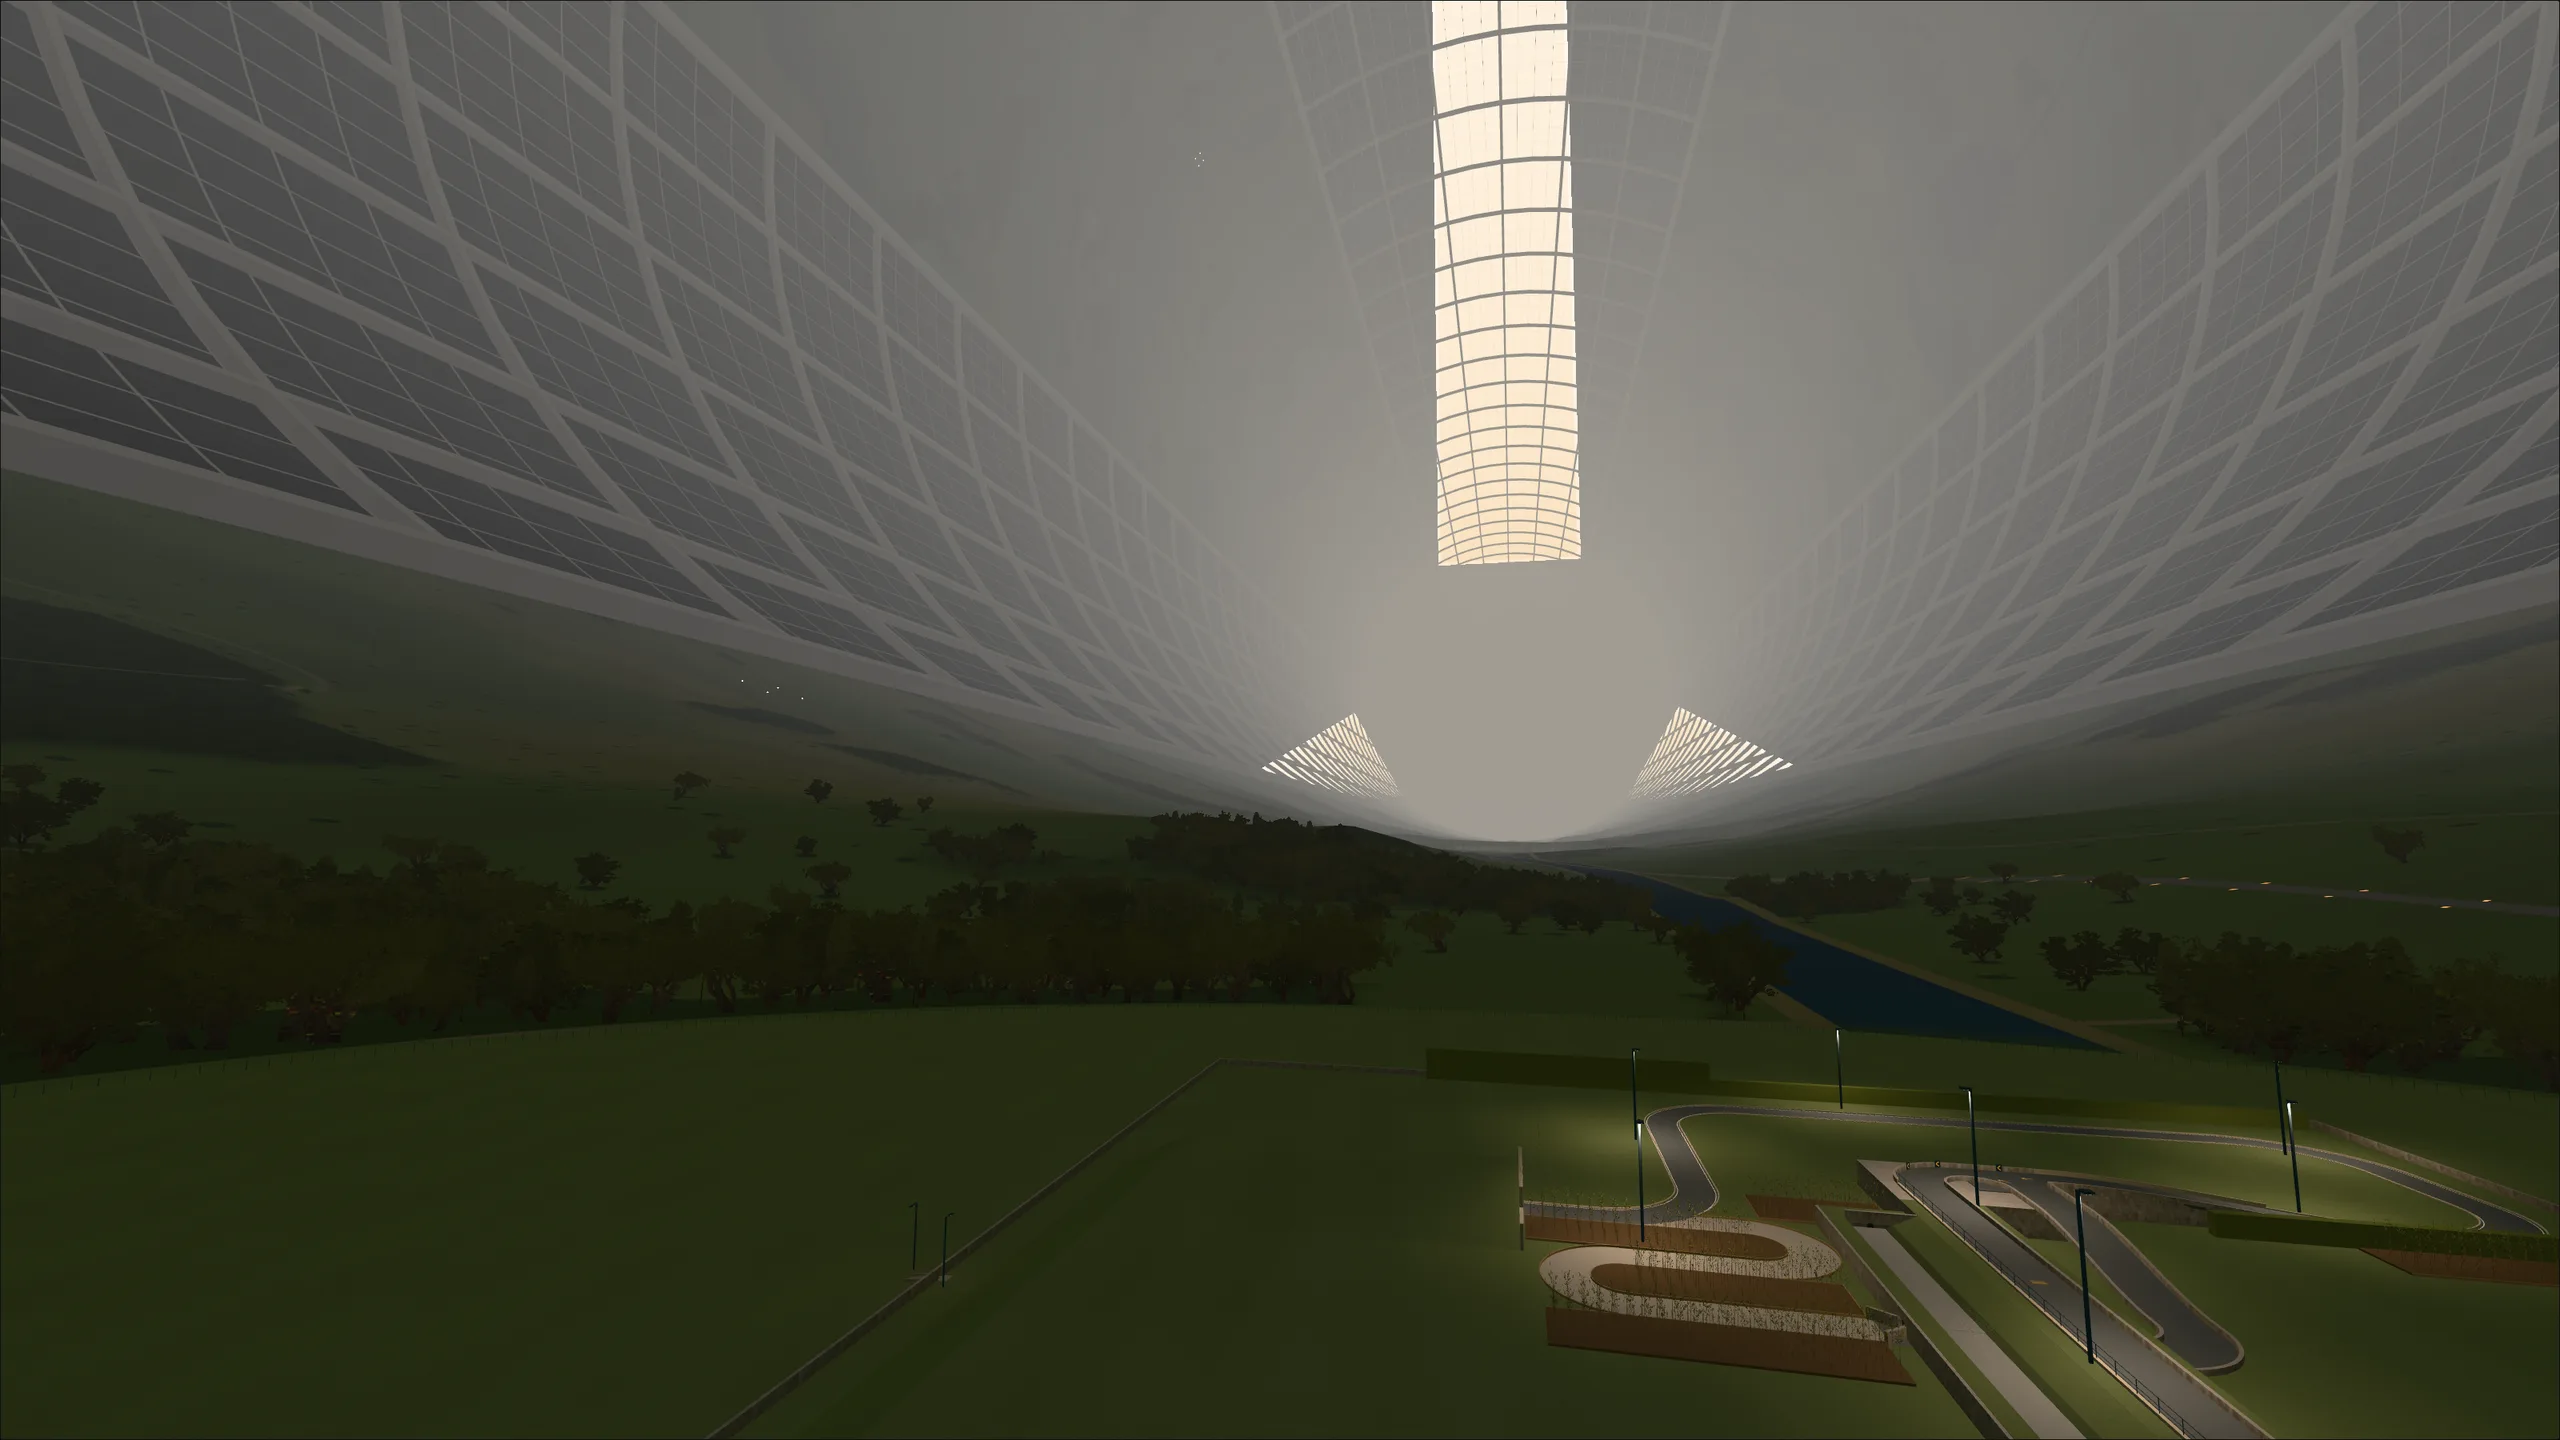
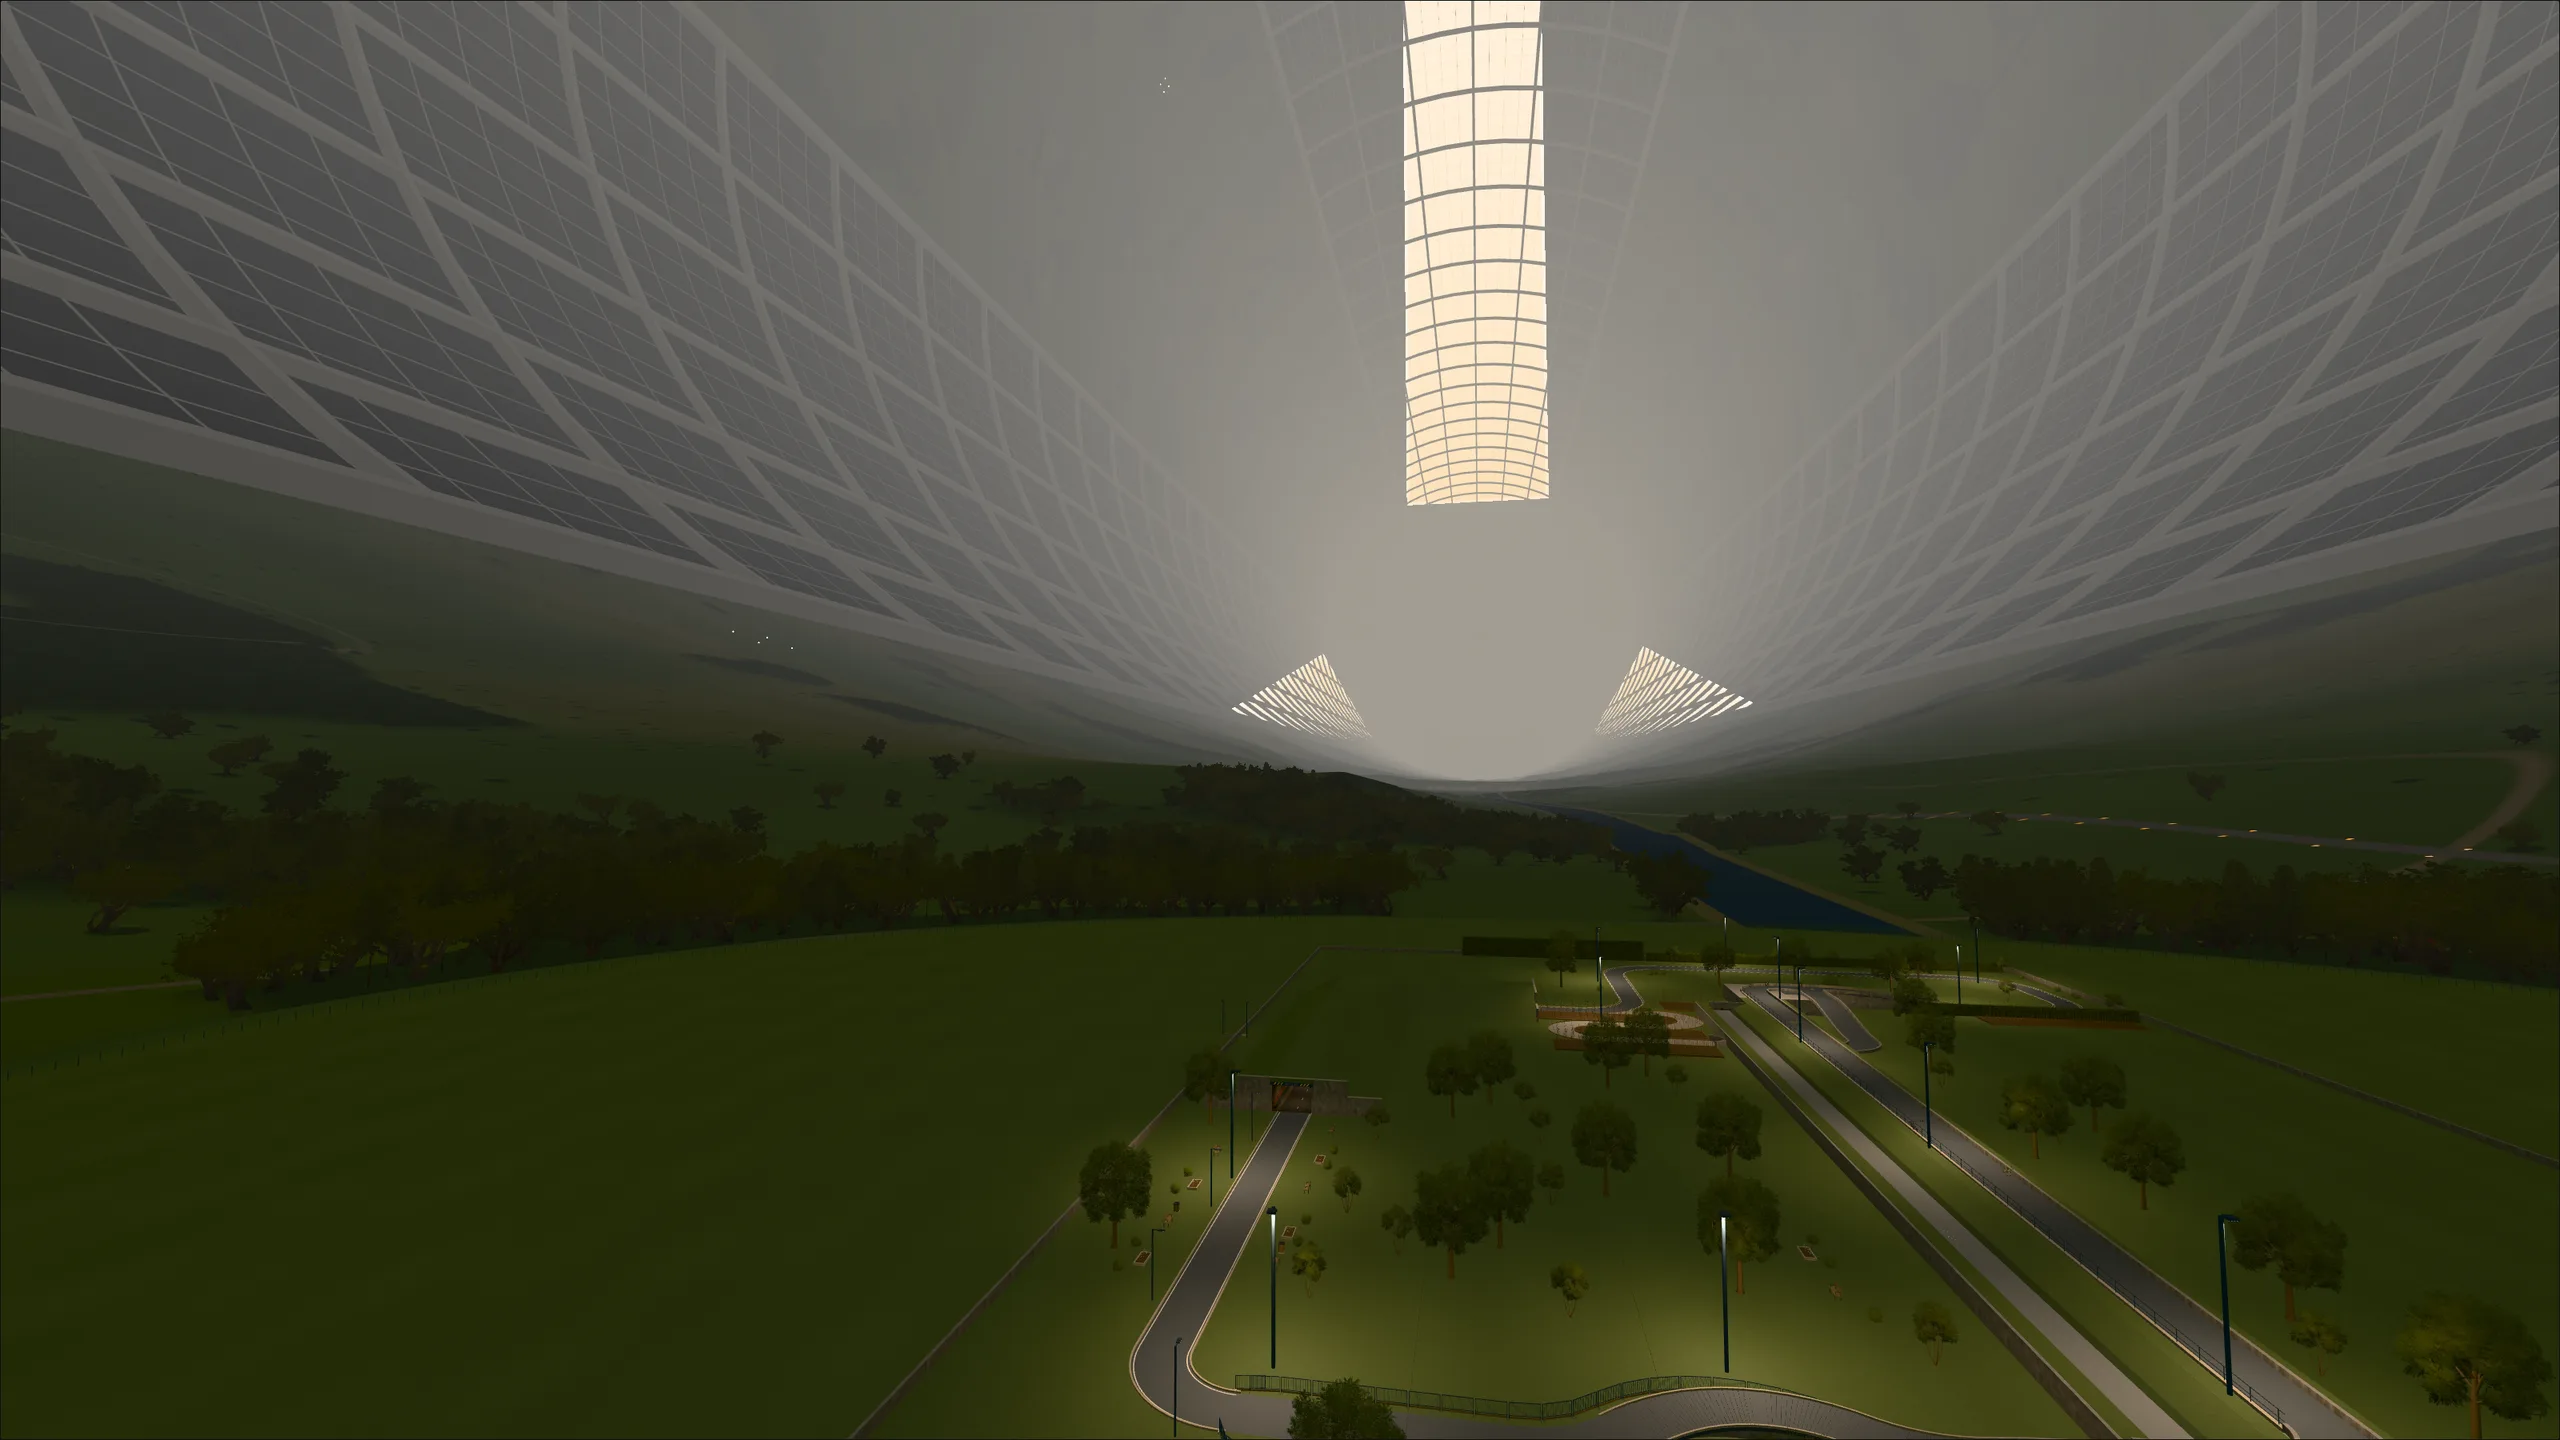
feat: show the park in the hero (#5)
The hero was rendered before Falls View Park had its trees, benches, and
planting, so it no longer matched the demo's home screen. It is now the
demo's own home picture: the same view down Island Three at dusk, taken
from a little further back, with the park, its clipped hedges, and the
race's richer colour. Same size and format, and the alt text names the
trees.

diff --git a/src/app/page.tsx b/src/app/page.tsx
@@ -110,7 +110,7 @@ function Hero() {
       <Image
         priority
         src="/images/falls-view-park-habitat.webp"
-        alt="Falls View Park at dusk, seen from above: a floodlit kart track in the foreground, with the habitat's latticed walls curving up on both sides toward a bright window overhead."
+        alt="Falls View Park at dusk, seen from above: a floodlit kart track among the park's trees in the foreground, with the habitat's latticed walls curving up on both sides toward a bright window overhead."
         fill
         sizes="100vw"
         className="hero-drift object-cover object-[64%_50%]"
